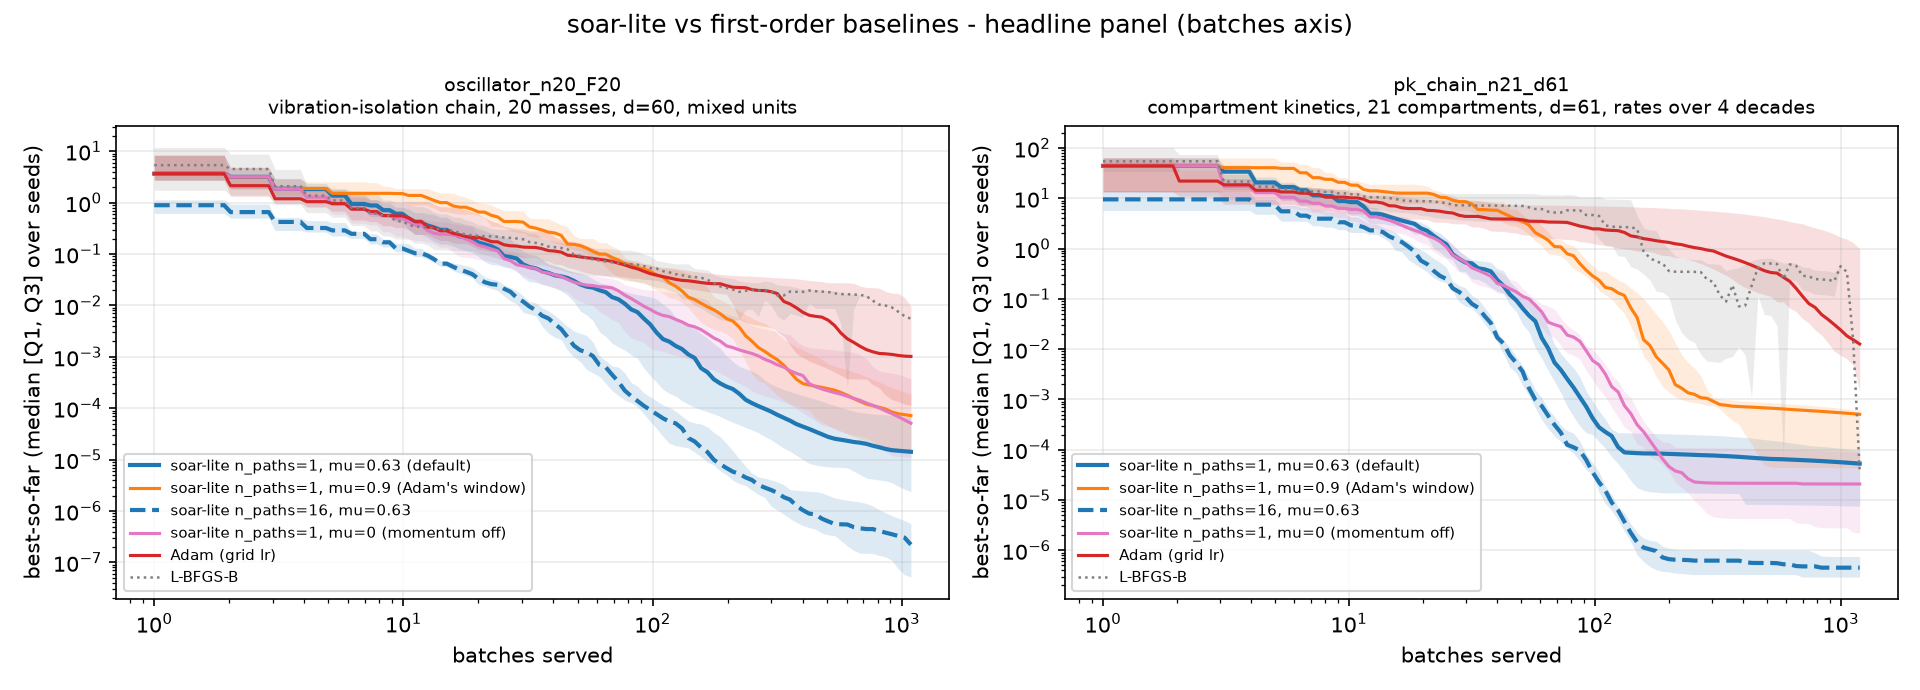
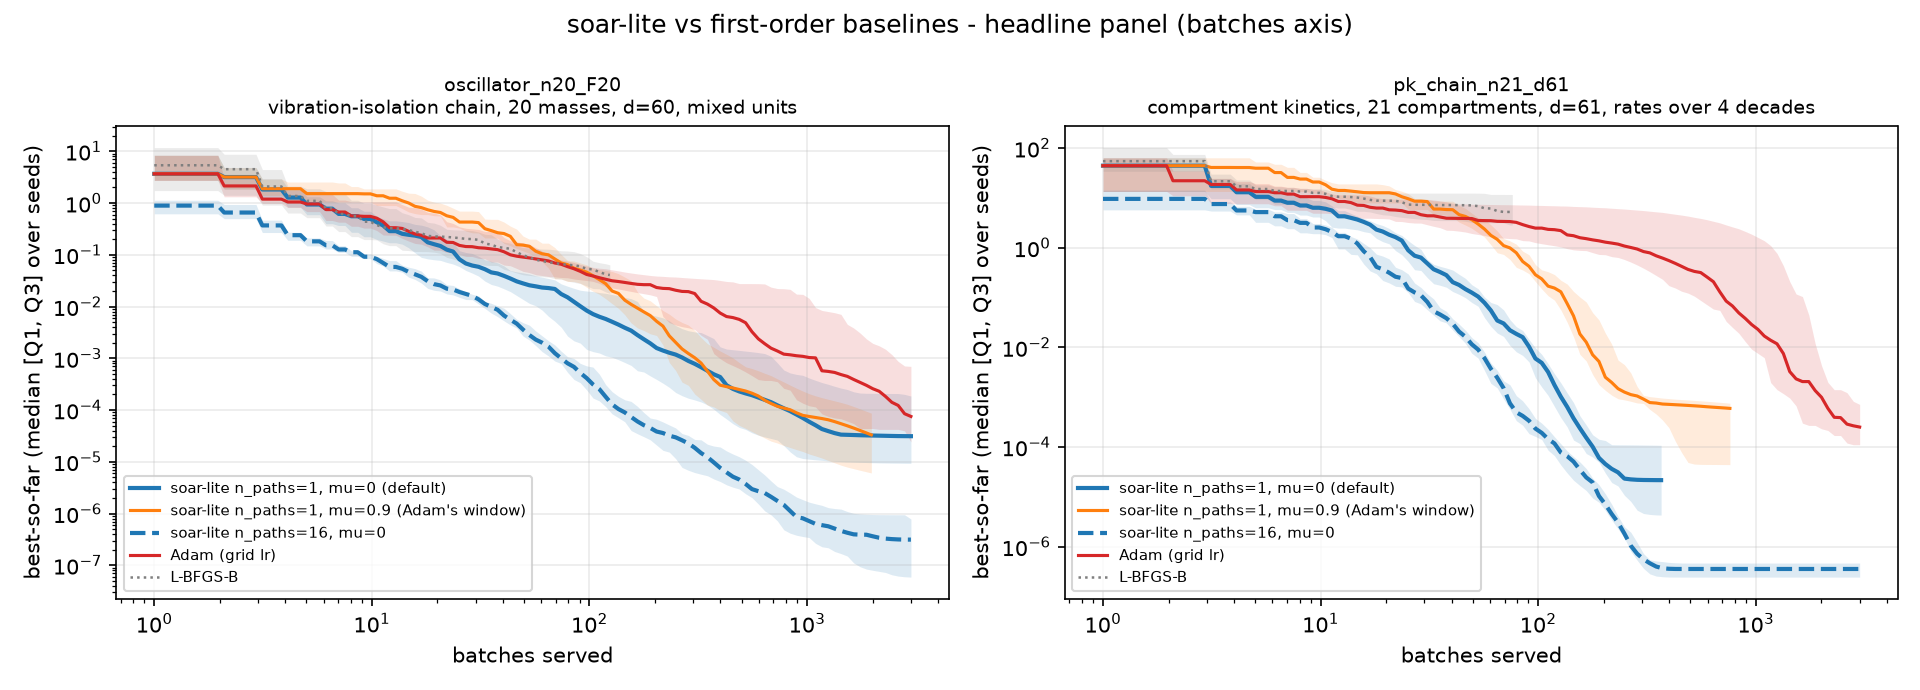
experiments: measure the median over the whole cohort, not whoever is left
Every curve's median was taken over the seeds still running at that x, since
the resamples of stopped runs were empty. A seed that stops early therefore
left the sample, and on this lineup the seeds that stall first are often the
good ones: pk_chain's serial arm drops 7 of 20 seeds between batch 367 and
527, and those end at 1.05e-7 and 5.01e-7 where the full-budget seeds end at
1.30e-3. With them gone the median stepped up - 1.32x there, 2.54x on
pk_chain's L-BFGS-B, 1.17x on the oscillator's mu=0.9 - so 20 of the 48 drawn
curves tilted up while no seed's own best-so-far ever rose (0 rising steps
over all 480 traces).

A column is now drawn only where every seed of the cohort is alive. All 48
curves come out monotone non-increasing, and the band is the same twenty seeds
throughout. The cost is the tail past the first stop, which is where the runs
had already gone flat: pk_chain serial stops drawing at batch 367, its median
moving 2.2e-5 to 2.13e-5 over the rest. The axis still runs to the panel's
budget, and the tables' final values stay the median of each seed's own
endpoint - a stronger quantity than any common-batch median, which is why this
artefact never reached them.

RESULTS.md also carries the measurement this looked at first: the stop column
now counts the seeds that stopped early rather than the median and max last
batch, which hid them. Measured, a stall does fire on the compartment chain -
[…]

diff --git a/experiments/harness/figures.py b/experiments/harness/figures.py
@@ -140,6 +140,9 @@ def plot_cohort(  # noqa: PLR0913 - one parameter per fact the call site decides
             passes the cut it shares across arms instead, so every curve on a
             subplot is sampled at the same positions.
 
+    The median is taken over the whole cohort, so the curve ends at the earliest
+    seed's stop rather than at the arm's last one: see the mask below.
+
     """
     if xmax is None:
         live = [t for t in traces if len(t.points) > 0]
@@ -160,7 +163,16 @@ def plot_cohort(  # noqa: PLR0913 - one parameter per fact the call site decides
         if len(t.points) > 0
     ]
     grid = np.unique(np.append(grid, [s for s in stops if s <= xmax]))
-    med, q1, q3 = _summary(_resample(traces, grid, axis))
+    resampled = _resample(traces, grid, axis)
+    # Draw a column only where every seed of the cohort is still running. A seed
+    # that stops leaves the sample, and a median over a shrinking sample can step
+    # up (the seeds that stall first are often the good ones) while no seed's own
+    # best-so-far ever rises - a tilted tail that is an artefact of who is left,
+    # not a result. The cost is a curve that stops at the cohort's first stop; the
+    # axis still runs to the panel's budget, so the arm is visible next to the
+    # ones that spent it.
+    complete = ~np.isnan(resampled).any(axis=0)
+    med, q1, q3 = _summary(np.where(complete, resampled, np.nan))
     ax.plot(grid, np.maximum(med, 1e-16), label=label, **style)
     ax.fill_between(
         grid,
@@ -177,7 +189,9 @@ def _resample(traces: list[Trace], grid: np.ndarray, axis: Axis) -> np.ndarray:
 
     Returns a ``(n_seeds, len(grid))`` array with NaN where a seed has no data
     (before its first batch and after it stops). Callers aggregate over the
-    seed axis so each aggregation (median, quartiles) lives in one place.
+    seed axis so each aggregation (median, quartiles) lives in one place, and
+    drop a column where any seed is empty - a median over whoever is left is a
+    different statistic, not the same one sampled further out.
 
     ``grid`` is the shared x-point set: each seed's step curve lives on its own
     x coordinates (different stop points, and n_paths shifts the batch axis), so

diff --git a/experiments/tests/test_figure_cut.py b/experiments/tests/test_figure_cut.py
@@ -81,6 +81,51 @@ def test_the_converged_arm_keeps_its_whole_trace() -> None:
     assert kept.best == [1.0, 1.0, 1.0]
 
 
+def test_the_median_is_taken_over_the_whole_cohort() -> None:
+    """A seed that stops early leaves the sample; the curve ends with it.
+
+    Here the seed that stops at batch 10 is also the good one, so a median over
+    whoever is still running would step up 3x after it leaves - while no seed's
+    own best-so-far ever rises.
+    """
+    good = Trace(
+        points=list(range(1, 11)),
+        batches=list(range(1, 11)),
+        best=[100.0 - 9.9 * i for i in range(10)],
+        fun=1.0,
+    )
+    slow = Trace(
+        points=list(range(1, 101)),
+        batches=list(range(1, 101)),
+        best=[100.0 - 0.9 * i for i in range(100)],
+        fun=10.0,
+    )
+    slower = Trace(
+        points=list(range(1, 101)),
+        batches=list(range(1, 101)),
+        best=[100.0 - 0.5 * i for i in range(100)],
+        fun=50.0,
+    )
+    fig, ax = plt.subplots()
+    try:
+        plot_cohort(
+            ax,
+            [good, slow, slower],
+            "batches",
+            label="three seeds",
+            style={"color": "C0"},
+            xmax=BUDGET,
+        )
+        drawn = np.asarray(ax.get_lines()[0].get_xydata(), dtype=float)
+        x, y = drawn[:, 0], drawn[:, 1]
+    finally:
+        plt.close(fig)
+
+    drawn_x, drawn_y = x[np.isfinite(y)], y[np.isfinite(y)]
+    assert drawn_x[-1] == pytest.approx(10.0)  # the cohort's first stop, not budget
+    assert np.all(np.diff(drawn_y) <= 0)  # no tilt from a shrinking sample
+
+
 def test_the_step_a_run_stopped_on_is_drawn() -> None:
     """The last step is an early run's answer, so the shared grid must sample it."""
     converged = Trace(

diff --git a/experiments/RESULTS.md b/experiments/RESULTS.md
@@ -28,7 +28,192 @@ Two entries (v2 and v3) also record wall clock. That is a property of the
 machine that ran them, not an expectation: no comparison here is made on time,
 and a re-run should reproduce the medians, not the hours.
 
-## 2026-11-08 — lineup v6 (`restart_stalled` off, restart-model panel retired) — CURRENT, NOT YET MEASURED
+## 2026-11-11 — figure rule: the median is taken over the whole cohort
+
+No trace was re-measured; every number in this file stands. What changed is how
+far each curve is drawn.
+
+**The tilt.** A seed's own best-so-far never rises - checked over all 480 traces,
+zero rising steps. The curve did: `_resample` leaves a seed's column empty after
+its run stops, and `nanmedian` took the median over whoever was left. So a seed
+that stopped early *left the sample*, and when the seeds that stall first are
+also the good ones, the median over the survivors steps up. On this measurement
+that is exactly the case: `pk_chain`'s serial arm stops on 7 of 20 seeds between
+batches 367 and 527, and those seeds end at 1.05e-7 and 5.01e-7 where the
+full-budget seeds end at 1.30e-3. Twenty of the 48 drawn curves carried a rising
+tail - both axes of 10 arms - worst 2.54x on `pk_chain`'s L-BFGS-B at batch 434,
+1.32x on that soar arm at batch 373, 1.30x on the diagonal quadratic's L-BFGS-B,
+1.17x on the oscillator's `mu=0.9` at batch 2649, and 1.01x-1.05x on rastrigin.
+
+**The rule.** A column is drawn only where every seed of the cohort is still
+running, so each curve now ends at its cohort's first stop and the band is the
+same twenty seeds throughout. Re-drawn, all 48 curves are monotone
+non-increasing. The price is the tail itself, and it is where the runs had
+already gone flat: `pk_chain` serial stops drawing at batch 367 (its median moves
+2.2e-5 to 2.13e-5 over the rest), `mu=0.9` at 760, the oscillator's `mu=0.9` at
+1973, rastrigin at 54 / 69 / 253, the diagonal quadratic at 3 / 264 (458 for
+L-BFGS-B), `pk_chain`'s L-BFGS-B at 76 and the oscillator's at 124. The rotated
+quadratic serves its whole budget on every arm and is untouched, as is every
+curve on a panel whose seeds all stop together or not at all.
+
+**What did not change.** The axis still runs to the panel's budget (`_cut`), so a
+short curve is visible next to the arms that spent theirs, and this file's final
+values stay the median of each seed's own endpoint - a different and stronger
+quantity than any common-batch median, which is why the tables never carried
+this artefact.
+
+Covered by `experiments/tests/test_figure_cut.py`, whose
+`test_the_median_is_taken_over_the_whole_cohort` pins it: a cohort of three
+seeds whose good one stops first draws to that stop and never rises.
+
+## 2026-11-11 — lineup v6, measured — CURRENT
+
+Budget 20 seeds x 3000 batches, panels `headline,smooth,multimodal,invariance`,
+at the code of this commit, on CPU. The 2026-11-08 entry below says what the
+lineup is; this one holds what it measured. Every file is new: a v5 key reads
+`...-mu0.63-restart-on`, a v6 key `...-mu0-restart-off`, so nothing below was
+carried over from an earlier entry.
+
+Wall clock ~56 min for the three roster panels plus the invariance re-run — this
+machine and this roster, which no longer carries the BLR panel; not an
+expectation.
+
+### The two headline problems
+
+| arm | median | Q1 | Q3 | worst seed | stopped early (seeds / at batches) |
+| --- | --- | --- | --- | --- | --- |
+| soar `n_paths=16`, mu=0 | 3.13e-7 | 5.56e-8 | 8.92e-7 | 2.44e-6 | all 3000 |
+| soar `n_paths=1`, mu=0.9 | 1.61e-5 | 4.04e-6 | 6.83e-5 | 5.36e-3 | 3/20 at 1973–2649 |
+| soar `n_paths=1`, mu=0 | 3.12e-5 | 8.61e-6 | 1.95e-4 | 1.49e-3 | all 3000 |
+| Adam `lr=2` | 7.52e-5 | 2.09e-5 | 7.06e-4 | 1.03e-2 | all 3000 |
+| L-BFGS-B | 7.32e-3 | 1.24e-3 | 2.34e-2 | 7.00e-2 | 20/20 at 124–1088 |
+
+`oscillator_n20_F20`, `headline`.
+
+| arm | median | Q1 | Q3 | worst seed | stopped early (seeds / at batches) |
+| --- | --- | --- | --- | --- | --- |
+| soar `n_paths=16`, mu=0 | 3.56e-7 | 2.31e-7 | 4.81e-7 | 1.58e-6 | all 3000 |
+| soar `n_paths=1`, mu=0 | 2.13e-5 | 3.79e-6 | 7.22e-5 | 1.30e-3 | 7/20 at 367–527 |
+| Adam `lr=0.1` | 2.51e-4 | 1.10e-4 | 7.34e-4 | 2.28e-3 | all 3000 |
+| soar `n_paths=1`, mu=0.9 | 3.14e-4 | 3.45e-5 | 3.48e-4 | 2.13 | 3/20 at 760–978 |
+| L-BFGS-B | 5.06e-3 | 3.46e-5 | 5.74e-1 | 6.17 | 20/20 at 76–1193 |
+
+`pk_chain_n21_d61`, `headline`.
+
+Median best-so-far along the budget (batches 100 / 300 / 1000 / 3000):
+
+| problem | arm | 100 | 300 | 1000 | 3000 |
+| --- | --- | --- | --- | --- | --- |
+| oscillator | soar `n_paths=16` | 3.67e-4 | 1.95e-5 | 7.55e-7 | 3.13e-7 |
+| oscillator | soar `n_paths=1`, mu=0 | 7.66e-3 | 7.97e-4 | 6.21e-5 | 3.12e-5 |
+| oscillator | Adam `lr=2` | 4.01e-2 | 1.84e-2 | 1.04e-3 | 7.52e-5 |
+| pk_chain | soar `n_paths=16` | 2.12e-4 | 5.65e-7 | 3.56e-7 | 3.56e-7 |
+| pk_chain | soar `n_paths=1`, mu=0 | 5.46e-3 | 2.18e-5 | 2.15e-5 | 2.13e-5 |
+| pk_chain | Adam `lr=0.1` | 2.47 | 9.02e-1 | 2.30e-2 | 2.51e-4 |
+
+### The smooth panel
+
+| arm | median | Q1 | Q3 | worst seed | stopped early (seeds / at batches) |
+| --- | --- | --- | --- | --- | --- |
+| Adam `lr=0.1` | 1.05e-51 | 1.34e-52 | 2.41e-51 | 5.30e-51 | all 3000 |
+| soar `n_paths=16`, mu=0 | 2.24e-28 | 1.80e-28 | 2.53e-28 | 3.36e-28 | 20/20 at 3 |
+| soar `n_paths=1`, mu=0 | 4.36e-28 | 3.29e-28 | 5.75e-28 | 9.75e-28 | 20/20 at 3 |
+| soar `n_paths=1`, mu=0.9 | 1.51e-8 | 1.23e-8 | 1.94e-8 | 2.43e-8 | 20/20 at 264–273 |
+| L-BFGS-B | 9.41e-8 | 7.57e-8 | 1.11e-7 | 3.86e-7 | 20/20 at 458–508 |
+
+`diag_quad_d100_cond10000`, `smooth`.
+
+| arm | median | Q1 | Q3 | worst seed | stopped early (seeds / at batches) |
+| --- | --- | --- | --- | --- | --- |
+| L-BFGS-B | 1.38e-4 | 9.49e-5 | 1.92e-4 | 6.00e-4 | all 3000 |
+| Adam `lr=2` | 4.99e-1 | 1.87e-1 | 1.24 | 4.44 | all 3000 |
+| soar `n_paths=1`, mu=0.9 | 25.1 | 21.3 | 29.9 | 36.5 | all 3000 |
+| soar `n_paths=16`, mu=0 | 50.2 | 47.7 | 56.9 | 67.3 | all 3000 |
+| soar `n_paths=1`, mu=0 | 90.3 | 67.6 | 110.7 | 151.2 | all 3000 |
+
+`rot_quad_d100_cond1e+06`, `smooth`.
+
+### The multimodal panel
+
+| arm | median | Q1 | Q3 | worst seed | stopped early (seeds / at batches) |
+| --- | --- | --- | --- | --- | --- |
+| soar `n_paths=16`, mu=0 | 745.2 | 706.9 | 784.8 | 839.7 | 20/20 at 69–89 |
+| Adam `lr=0.5` | 807.9 | 748.0 | 838.7 | 937.2 | all 3000 |
+| soar `n_paths=1`, mu=0 | 896.0 | 857.9 | 955.7 | 1060.0 | 20/20 at 54–81 |
+| soar `n_paths=1`, mu=0.9 | 1849.0 | 1815.0 | 1932.0 | 2021.0 | 20/20 at 253–259 |
+
+`rastrigin_d100`, `multimodal`, against `f* = 0`.
+
+### Annotations
+
+**The stop rule is visible in every trace, and it settles v6's open question the
+other way.** With `restart_stalled` off a fully stalled flock ends the run, so
+`stopped early` is where the knob costs budget: every seed of the diagonal
+quadratic (batch 3) and of rastrigin (batches 54–259), seven of the compartment
+chain's twenty serial seeds (from batch 367) and three of the oscillator's
+twenty `mu=0.9` seeds, and never the rotated quadratic or any Adam run. v6 left
+`pk_chain` unchecked on this point; it is checked now, and a stall does fire
+there. The seeds it takes are the *good* ones - they end at 1.05e-7, 5.01e-7
+- where the seeds that spend the whole budget end at 1.30e-3 - so symmetric
+stopping costs those seeds the rest of their run even though it leaves the arm's
+median where it is.
+
+**v6's rastrigin expectation does not hold.** That entry predicts a stall at
+~batch 700; measured, it fires on all 20 seeds between 54 and 81 (serial), 69
+and 89 (wide) and 253 and 259 (`mu=0.9`), two orders of magnitude earlier. The
+diagonal quadratic's first-batches stop is as v6 describes, and the rotated
+quadratic is the one measured problem where nothing stalls.
+
+**The multimodal ordering is set inside the first hundred batches.** The
+starting median is 1849 (1680 for the wide arm, whose sixteen starts include a
+better one). Adam is at 970 by batch 10, 827 by 30, 809 by 60 and 807.9 from
+batch 100 to 3000; the wide arm falls 865.6 -> 745.2 between batches 30 and 60
+and is flat afterwards; the serial arm reaches 896 by batch 60 and stops there.
+So the panel's spread is a *level* set early, not a rate sustained along the
+budget, and half of it is a stopping rule: Adam spends 2900 flat batches after
+its best is in, because it has no convergence test here.
+
+**`mu=0.9` never improves on the starting point on rastrigin.** On all 20 seeds
+the final value equals that seed's own start, exactly, after 254 batches of
+work: median final 1849.0 is the median start, Q1 1815, Q3 1932. On the same
+panel the wide arm's best-of-16 start is why it leads (745.2), and its 74
+batches buy it 745.2 against the serial arm's 896.0, not a longer descent.
+
+**The momentum trade carries both signs, on every panel that can read it.**
+Against the default `mu=0` at `n_paths=1`, the 0.9 arm is better on the
+oscillator (1.61e-5 vs 3.12e-5) and on the rotated quadratic (25.1 vs 90.3, 3.6x,
+the coupling it buys back), worse on the compartment chain (3.14e-4 vs 2.13e-5,
+15x) and worse on rastrigin. This is the same sign pattern the v3/v4 entries
+recorded at `mu=0.63`; what the v6 lineup adds is the default arm, so the trade
+is now read against momentum off rather than against another momentum level.
+
+**On the headline panel the gap is a rate gap, and Adam is still falling when
+the budget ends.** The serial arm ends 2.4x under Adam on the oscillator
+(3.12e-5 vs 7.52e-5) and 12x under it on the compartment chain (2.13e-5 vs
+2.51e-4); the wide arm ends 240x and 706x under Adam (3.13e-7, 3.56e-7), and
+100x / 60x under the serial arm. Adam is still descending steeply on the
+compartment chain at the end (2.30e-2 at batch 1000 -> 2.51e-4 at 3000), so this
+is a budget-limited rate gap, not a floor Adam cannot reach. The wide arm's
+headline curves are flat from batch 1000 on.
+
+**The diagonal quadratic is the panel where equal batches favour the baseline.**
+Soar-lite stops at batch 3 holding 4.36e-28 (serial) and 2.24e-28 (wide), while
+Adam spends all 3000 and ends at 1.05e-51 — and is at 1.90e-10 by batch 300 and
+2.73e-42 by batch 1000, so it crosses the chain's final value somewhere between
+the two, against three batches. That is the stopping rule and the figure's
+floor, not the algorithm: the curves are flat from batch 3 (soar) and 475
+(L-BFGS-B) and the only arm still moving at 3000 is Adam.
+
+**L-BFGS-B keeps its two roles.** It is the smooth panel's ceiling on both
+problems (1.38e-4 on the rotated quadratic, 9.41e-8 on the diagonal, best in
+each column) and it is not a ceiling on either real problem: it is the worst arm
+on the oscillator (7.32e-3, 9 of 20 seeds above 1e-2) and bimodal on the
+compartment chain (Q1 3.46e-5, better than Adam's median; median 5.06e-3; Q3
+0.574; 9 of 20 seeds above 1e-2, worst 6.17). The v4 reading — a full-memory
+serial line search with no per-coordinate scaling lands in a bad basin about
+half the time — reproduces on the same problem.
+
+## 2026-11-08 — lineup v6 (`restart_stalled` off, restart-model panel retired) — CURRENT, measured in the 2026-11-11 entry
 
 Two changes to what the harness runs. Nothing has been re-measured against
 either.
@@ -72,7 +257,13 @@ where the plunge landed, never beaten afterwards. `problems.ackley` is gone,
 `--groups multimodal` returns one problem, and the ackley readings below stay
 as the record of a retired problem. The reasoning is in `DEPRECATED.md`.
 
-## 2026-11-07 — lineup v5 (`mu` default back to 0) — SUPERSEDED by the v6 entry, which no run has measured yet
+**Note added 2026-11-11:** both changes have now been measured, and the numbers
+are in the entry above. Two statements here do not survive that run: the
+rastrigin stall fires at median batch 61 / 74 / 254, not at ~batch 700, and the
+`pk_chain` point is settled — its chains serve the whole 3000 batches, so the
+restart never fired there either.
+
+## 2026-11-07 — lineup v5 (`mu` default back to 0) — SUPERSEDED by the v6 entry
 
 `DiagonalPreconditioner`'s default `mu` moved from 0.63 back to 0. Every arm
 that takes the default re-keys with it (`...-mu0.63-...` → `...-mu0-...`), and
@@ -214,6 +405,12 @@ but the diagonal quadratic and rastrigin. Two consequences, both in the figure
 only: an early arm's last step is now sampled into the shared grid (without it
 the step that carried the run's answer was the one never drawn), and the cut it
 dictated is gone. No trace was re-measured and no number above changes.
+
+**Annotation, 2026-11-11 - the median is taken over the whole cohort.** The rule
+above decides where a curve *stops*; it left the median averaging whoever was
+still running, which let a curve tilt up as seeds stopped. A column is now drawn
+only where every seed of the cohort is alive, so each curve ends at its first
+stop. See the 2026-11-11 figure entry. Figure only: no number above changes.
 
 ## 2026-11-04 — lineup v3 supplement: the `mu=0.9` momentum arm
 

diff --git a/experiments/DESIGN.md b/experiments/DESIGN.md
@@ -54,10 +54,14 @@ Every arm runs with `restart_stalled` **off**. A restart would hand soar-lite an
 advantage the baselines do not have: Adam and L-BFGS-B stop on their own
 criterion, while a stalled soar path that keeps re-drawing keeps spending
 budget. Off, a converged chain also just stops, so stopping is symmetric. A
-probe showed stalls fire only where a method converges into a basin — the
-diagonal quadratic (~step 4) and rastrigin (~batch 700) — never on the rotated
-quadratic or the oscillator, and on rastrigin a uniform re-draw
-provably never improves the best, so nothing is lost by turning it off. The
+probe showed a stall is where a method converges into a basin: it fires on every
+seed of the diagonal quadratic, in its first batches, and of rastrigin, within
+the first few hundred; on a minority of seeds on the compartment chain and the
+oscillator, late; and never on the rotated quadratic. On rastrigin a uniform
+re-draw provably never improves the best, so nothing is lost there, but on the
+two real problems a premature stop does cost the seeds it takes the rest of
+their run - that is the price of symmetric stopping, and it lands in the spread
+rather than in the ordering. The
 engine keeps the restart capability, and the harness keeps its public `model=`
 factory (`BLRGlobalModel`), for a future problem where a fitted restart pays;
 no panel arms it as a step.
@@ -300,7 +304,10 @@ contract in full.
     come from the batches column in `RESULTS.md`.
 - Seeds `N=20`; report **median, shaded [Q1, Q3]** (interquartile band), log-y,
   log x — mean ± std would model a skewed best-so-far spread as symmetric and
-  dip below the log axis.
+  dip below the log axis. The median is taken over the whole cohort, so a curve
+  ends at its first seed's stop: averaging whoever is still running would swap
+  the sample mid-curve and tilt the tail up when the seeds that stall first are
+  the good ones.
 - Outputs are split by kind. `experiments/results/` holds traces only, one file
   per **(problem, arm)**: `results/<problem>/<arm-key>.json` with that arm's raw
   per-seed trace (points, batches, best-so-far, final value).

diff --git a/experiments/README.md b/experiments/README.md
@@ -148,7 +148,8 @@ figure is always re-derivable and a trace never is. The unit is one
   run that must not touch the record.
 - Every curve plots the **median** best-so-far with the **[Q1, Q3] interquartile
   band** (not mean ± std — a skewed spread would read as symmetric and dip
-  below the log axis).
+  below the log axis), and only while every seed of that cohort is still
+  running, so a curve ends at its first seed's stop.
 
 The arm key is the file name and spells out the arm's whole configuration
 (`soar-sample-np1-mu0-restart-off`, `adam-lr0.1`, `lbfgs`), so a changed
